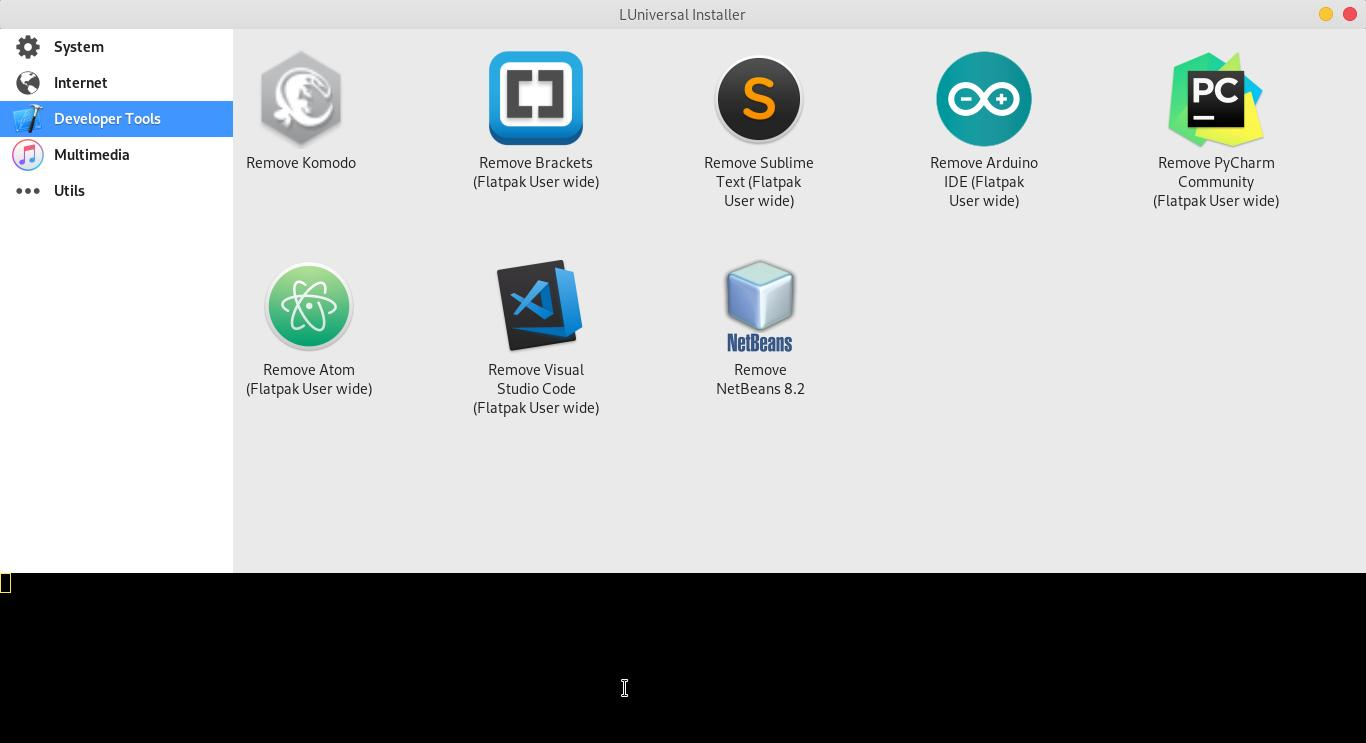
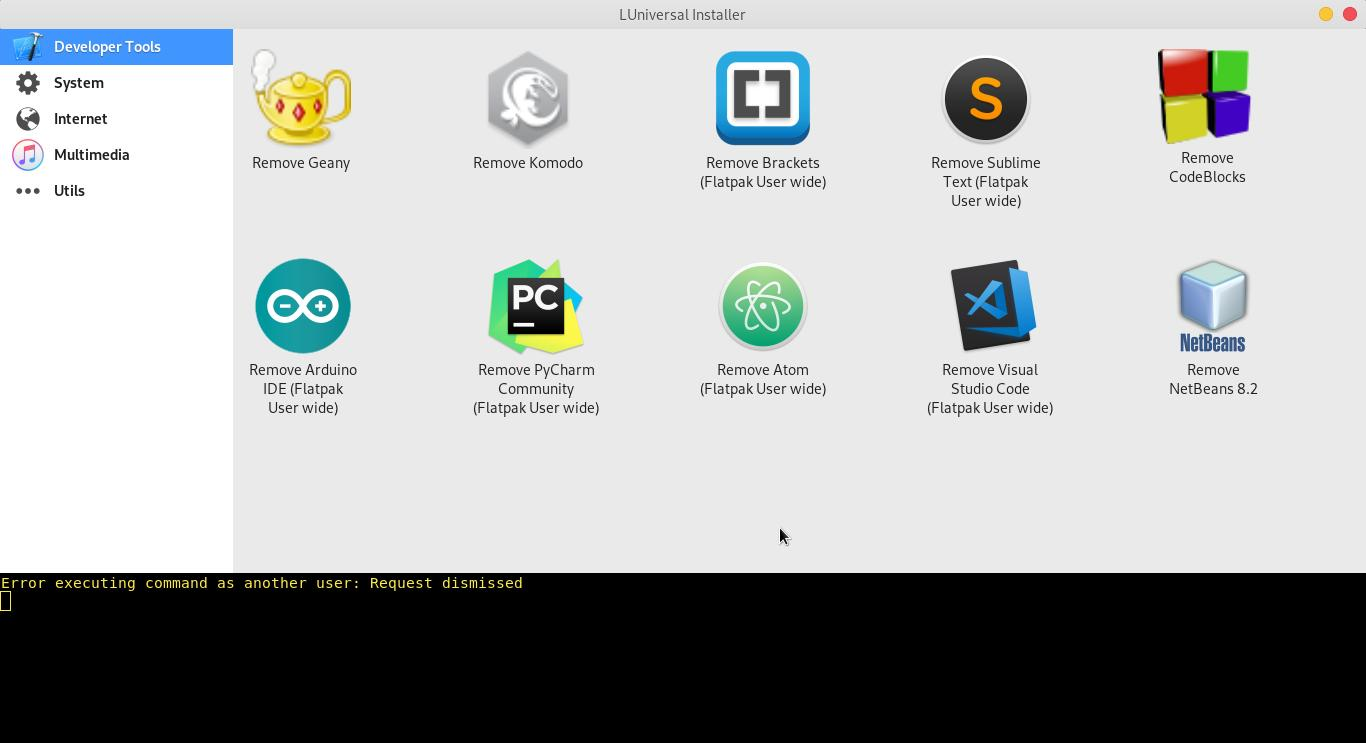
update

diff --git a/plugins/geany_fedora.py b/plugins/geany_fedora.py
@@ -1,0 +1,86 @@
+#!/usr/bin/env python
+# -*- coding: utf-8 -*-
+#
+#  geany_fedora.py
+#  
+#  Copyright 2018 youcef sourani <youssef.m.sourani@gmail.com>
+#  
+#  This program is free software; you can redistribute it and/or modify
+#  it under the terms of the GNU General Public License as published by
+#  the Free Software Foundation; either version 2 of the License, or
+#  (at your option) any later version.
+#  
+#  This program is distributed in the hope that it will be useful,
+#  but WITHOUT ANY WARRANTY; without even the implied warranty of
+#  MERCHANTABILITY or FITNESS FOR A PARTICULAR PURPOSE.  See the
+#  GNU General Public License for more details.
+#  
+#  You should have received a copy of the GNU General Public License
+#  along with this program; if not, write to the Free Software
+#  Foundation, Inc., 51 Franklin Street, Fifth Floor, Boston,
+#  MA 02110-1301, USA.
+#  
+#  
+from universalplugin.uplugin import BasePlugin, get_uniq_name
+import subprocess
+import time
+import os
+
+if_true_skip         = False
+if_false_skip        = True
+if_one_true_skip     = [False,False]
+if_all_true_skip     = [True,False]
+                
+arch                 = ["all"]
+distro_name          = ["fedora"]
+distro_version       = ["all"]
+category             = "<b>Developer Tools</b>"
+category_icon_theme  = "applications-development"
+
+all_package = ["geany-themes","geany","geany-libgeany"]
+
+class Plugin(BasePlugin):
+    __gtype_name__ = get_uniq_name(__file__) #uniq name and no space
+    def __init__(self,parent):
+        BasePlugin.__init__(self,parent=parent,
+                            spacing=2,
+                            margin=10,
+                            button_image="geany.png",
+                            button_install_label="Install Geany",
+                            button_remove_label="Remove Geany",
+                            buttontooltip="A fast and lightweight IDE using GTK3",
+                            buttonsizewidth=100,
+                            buttonsizeheight=100,
+                            button_relief=2,
+                            blockparent=False,
+                            daemon=False,
+                            waitmsg="Wait...",
+                            runningmsg="Running...",
+                            loadingmsg="Loading...",
+                            ifinstallfailmsg="Install Geany Failed",
+                            ifremovefailmsg="Remove Geany Failed",
+                            expand=False)
+
+
+    def check(self):
+        check_package = all([self.check_package(pack) for pack in ["geany","geany-libgeany"]])
+        return not check_package     
+         
+    def install(self):
+        to_install = [pack for pack in all_package if not self.check_package(pack)]
+        to_install = " ".join(to_install)
+        if subprocess.call("pkexec dnf install {} -y --best".format(to_install),shell=True)==0:
+            return True
+        return False
+        
+    def remove(self):
+        to_remove = " ".join([pack for pack in ["geany","geany-libgeany"] if self.check_package(pack)])
+        if subprocess.call("pkexec rpm -v --nodeps -e {}".format(to_remove),shell=True)==0:
+            return True
+        return False
+
+    def check_package(self,package_name):
+        if subprocess.call("rpm -q {} &>/dev/null".format(package_name),shell=True) == 0:
+            return True
+        return False
+        

diff --git a/plugins/codeblocks_fedora.py b/plugins/codeblocks_fedora.py
@@ -1,0 +1,84 @@
+#!/usr/bin/env python
+# -*- coding: utf-8 -*-
+#
+#  codeblocks_fedora.py
+#  
+#  Copyright 2018 youcef sourani <youssef.m.sourani@gmail.com>
+#  
+#  This program is free software; you can redistribute it and/or modify
+#  it under the terms of the GNU General Public License as published by
+#  the Free Software Foundation; either version 2 of the License, or
+#  (at your option) any later version.
+#  
+#  This program is distributed in the hope that it will be useful,
+#  but WITHOUT ANY WARRANTY; without even the implied warranty of
+#  MERCHANTABILITY or FITNESS FOR A PARTICULAR PURPOSE.  See the
+#  GNU General Public License for more details.
+#  
+#  You should have received a copy of the GNU General Public License
+#  along with this program; if not, write to the Free Software
+#  Foundation, Inc., 51 Franklin Street, Fifth Floor, Boston,
+#  MA 02110-1301, USA.
+#  
+#  
+from universalplugin.uplugin import BasePlugin, get_uniq_name
+import subprocess
+import time
+import os
+
+if_true_skip         = False
+if_false_skip        = True
+if_one_true_skip     = [False,False]
+if_all_true_skip     = [True,False]
+                
+arch                 = ["all"]
+distro_name          = ["fedora"]
+distro_version       = ["all"]
+category             = "<b>Developer Tools</b>"
+category_icon_theme  = "applications-development"
+
+all_package = ["codeblocks","gcc","gcc-c++","xterm"]
+
+class Plugin(BasePlugin):
+    __gtype_name__ = get_uniq_name(__file__) #uniq name and no space
+    def __init__(self,parent):
+        BasePlugin.__init__(self,parent=parent,
+                            spacing=2,
+                            margin=10,
+                            button_image="codeblocks.png",
+                            button_install_label="Install CodeBlocks",
+                            button_remove_label="Remove CodeBlocks",
+                            buttontooltip="An open source, cross platform, free C++ IDE",
+                            buttonsizewidth=100,
+                            buttonsizeheight=100,
+                            button_relief=2,
+                            blockparent=False,
+                            daemon=False,
+                            waitmsg="Wait...",
+                            runningmsg="Running...",
+                            loadingmsg="Loading...",
+                            ifinstallfailmsg="Install CodeBlocks Failed",
+                            ifremovefailmsg="Remove CodeBlocks Failed",
+                            expand=False)
+
+
+    def check(self):
+        return not self.check_package("codeblocks")       
+         
+    def install(self):
+        to_install = [pack for pack in all_package if not self.check_package(pack)]
+        to_install = " ".join(to_install)
+        if subprocess.call("pkexec dnf install {} -y --best".format(to_install),shell=True)==0:
+            return True
+        return False
+        
+    def remove(self):
+        if subprocess.call("pkexec rpm -v --nodeps -e codeblocks",shell=True)==0:
+            return True
+        return False
+
+    def check_package(self,package_name):
+        if subprocess.call("rpm -q {} &>/dev/null".format(package_name),shell=True) == 0:
+            return True
+        return False
+        
